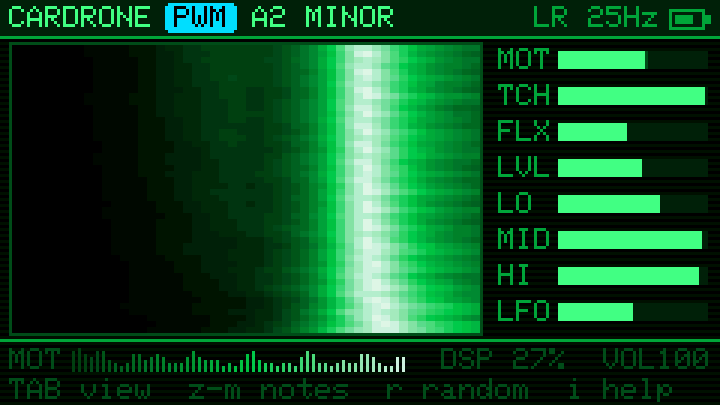
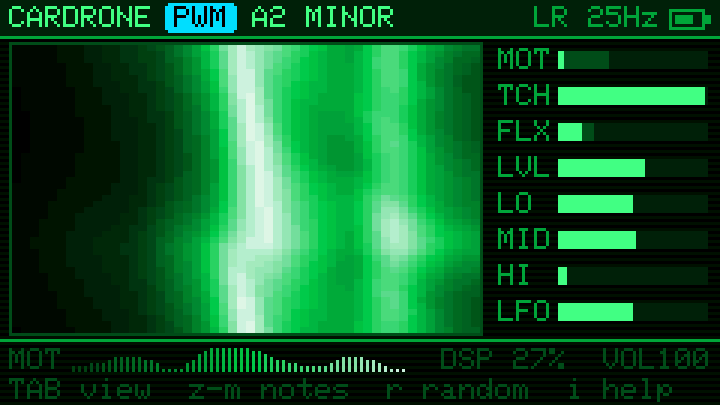
LoRa wobble spectrum 0.03-1.2 Hz with a gentler tilt: centred on MID
A recording of someone moving across a flat (25 beacons/s) put the old 0.15-6 Hz picture's
brightness mostly on the right: LoRa reports levels in 1 dB steps, and their flicker
spreads over every rate. Replayed through candidate settings, 0.03-1.2 Hz with a x f^0.4
tilt and a 0.5 dB floor centres it (waterfall 0.49/0.56/0.51; MID the busiest source).
LO 0.03-0.1 Hz tides, MID 0.1-0.35 Hz moving about, HI 0.35-1.2 Hz gestures, walking.

diff --git a/src/csi.h b/src/csi.h
@@ -19,10 +19,13 @@ static const char* const SRC_NAME[NSRC] = {"MOT", "PHS", "FLX", "RSI", "LO", "MI
 // LoRa mode: same slots, so the matrix and presets carry over (see level()).
 static const char* const SRC_NAME_LORA[NSRC] = {"MOT", "TCH", "FLX", "LVL", "LO", "MID", "HI", "LFO"};
 // LoRa wobble spectrum: one bandpass filter per waterfall column, log-spaced over the rates
-// people move a sub-GHz link at (breathing and swaying ... walking).
-constexpr float kWobLo = 0.15f, kWobHi = 6;  // Hz
+// people move a sub-GHz link at. Measured across a flat, someone moving about shows up
+// mostly as swells of several dB over several seconds; above ~1 Hz there's little but the
+// readings' 1 dB steps flickering. This span (and the tilt below) centred a recording of
+// that on MID and on the middle of the waterfall.
+constexpr float kWobLo = 0.03f, kWobHi = 1.2f;  // Hz
 static inline float wobHz(int k) { return kWobLo * powf(kWobHi / kWobLo, k / (NSC - 1.f)); }
-constexpr float kLoraFloor = 0.5f;  // dB: wobble smaller than this never reads as full scale (RSSI steps are 0.5 dB)
+constexpr float kLoraFloor = 0.5f;  // dB: wobble smaller than this never reads as full scale
 constexpr float kLvlRange = 6;       // dB away from the empty-room level that reads as full LVL
 constexpr float kTouchMin = 0.05f;   // touch rise (fraction of the untouched reading) that can read as full TCH
 
@@ -130,17 +133,17 @@ struct Csi {
   // (dBm), plus its touch reading. No subcarriers and no phase, so the slots refill:
   // MOT, FLX as for CSI, from the level; PHS -> TCH, the touch; RSI -> LVL, the level,
   // or once calibrated its distance from the empty room's. prof becomes the wobble
-  // spectrum, 0.15-6 Hz, and LO/MID/HI its thirds, as for CSI: under 0.5 Hz (settling,
-  // swaying), 0.5-1.75 Hz (gestures), 1.75-6 Hz (walking).
+  // spectrum, 0.03-1.2 Hz, and LO/MID/HI its thirds, as for CSI: 0.03-0.1 Hz (slow tides),
+  // 0.1-0.35 Hz (someone moving about), 0.35-1.2 Hz (gestures, walking).
   void level(float dbm, float touch) {
     // Bandpass (Q 2: broad, but quick), its envelope's rate (~1.5 cycles, at most 2 s), and a
-    // tilt for the picture: motion has far less energy at quick rates, which would stay dark.
+    // gentle tilt for the picture: motion has less energy at quicker rates.
     struct Bp { float b0, a1, a2, e, tilt; };
     static Bp bp[NSC];
     if (!bp[0].b0)
       for (int k = 0; k < NSC; k++) {
         float f = wobHz(k), w = 6.2831853f * f / 50, al = sinf(w) / 4, a0 = 1 + al;
-        bp[k] = {al / a0, -2 * cosf(w) / a0, (1 - al) / a0, 1 - expf(-0.02f / fminf(1.5f / f, 2)), sqrtf(f / kWobLo)};
+        bp[k] = {al / a0, -2 * cosf(w) / a0, (1 - al) / a0, 1 - expf(-0.02f / fminf(1.5f / f, 2)), powf(f / kWobLo, 0.4f)};
       }
     if (frames == 0) fast[0] = slow[0] = prev[0] = lvl = dbm;
     fast[0] += (dbm - fast[0]) * 0.3f;

diff --git a/test/host_test.cpp b/test/host_test.cpp
@@ -95,8 +95,8 @@ int main(int argc, char** argv) {
   csi.calibrate();
   feed(0, 1.5f, kCalFrames, t);
 
-  // LoRa: a still link stays low; walking (fast fades) lifts MOT, FLX and HI and peaks the
-  // wobble spectrum at its rate; a slow sway lifts LO over HI; touch; calibrated LVL.
+  // LoRa: a still link stays low; quicker movement lifts MOT, FLX and HI within 2 s and
+  // peaks the wobble spectrum at its rate; slow tides lift LO over HI; touch; calibrated LVL.
   {
     static Csi c;
     float tt = 0;
@@ -108,20 +108,24 @@ int main(int argc, char** argv) {
     };
     link(-62, 0, 0, 0, 1500);  // 30 s still
     float sMot = c.src[S_MOT], sFlx = c.src[S_FLX], sHi = c.src[S_HI];
-    link(-62, 3, 0.2f, 0, 400);  // 8 s swaying: 3 dB at 0.2 Hz
-    printf("lora: still MOT %.2f FLX %.2f HI %.2f  sway LO %.2f MID %.2f HI %.2f\n", sMot, sFlx, sHi, c.src[S_LO],
-           c.src[S_MID], c.src[S_HI]);
-    assert(sMot < 0.35f && sHi < 0.35f && c.src[S_LO] > 0.5f && c.src[S_LO] > c.src[S_HI] + 0.3f);
-    int react = -1;  // 5 s walking: 4 dB fades at 3 Hz; HI must follow within half a second
-    for (int f = 0; f < 250; f++)
-      if (link(-62, 4, 3, 0, 1), react < 0 && c.src[S_HI] > 0.5f) react = f;
+    int react = -1;  // 8 s of gestures: 4 dB fades at 0.7 Hz; sources averaged over the last 4 s
+    float mot = 0, flx = 0, hi = 0;
+    for (int f = 0; f < 400; f++) {
+      if (link(-62, 4, 0.7f, 0, 1), react < 0 && c.src[S_HI] > 0.5f) react = f;
+      if (f >= 200) mot += c.src[S_MOT] / 200, flx += c.src[S_FLX] / 200, hi += c.src[S_HI] / 200;
+    }
     int pk = 0;
     for (int k = 1; k < NSC; k++)
       if (c.benv[k] > c.benv[pk]) pk = k;
-    printf("lora: walking MOT %.2f FLX %.2f HI %.2f  peak %.1f Hz\n", c.src[S_MOT], c.src[S_FLX], c.src[S_HI], wobHz(pk));
-    assert(c.src[S_MOT] > sMot + 0.3f && c.src[S_FLX] > sFlx + 0.3f && c.src[S_HI] > 0.6f);
-    assert(fabsf(wobHz(pk) - 3) < 0.5f && c.prof[pk] > 0.8f);  // the walking rate lights up
-    assert(react >= 0 && react * 20 < 500);
+    printf("lora: still MOT %.2f FLX %.2f HI %.2f  moving MOT %.2f FLX %.2f HI %.2f  peak %.1f Hz\n", sMot, sFlx, sHi,
+           mot, flx, hi, wobHz(pk));
+    assert(sMot < 0.35f && sHi < 0.35f && mot > sMot + 0.3f && flx > sFlx + 0.3f && hi > 0.6f);
+    assert(fabsf(wobHz(pk) - 0.7f) < 0.15f && c.prof[pk] > 0.8f);  // its rate lights up
+    assert(react >= 0 && react * 20 < 2000);
+    link(-62, 0, 0, 0, 1500);  // 30 s still, then 30 s of slow tides: 3 dB at 0.06 Hz
+    link(-62, 3, 0.06f, 0, 1500);
+    printf("lora: tides LO %.2f MID %.2f HI %.2f\n", c.src[S_LO], c.src[S_MID], c.src[S_HI]);
+    assert(c.src[S_LO] > 0.5f && c.src[S_LO] > c.src[S_HI] + 0.3f);
     link(-62, 0, 0, 0.3f, 50);
     assert(c.src[S_PHS] > 0.9f);  // TCH
     link(-62, 0, 0, 0, 50);

diff --git a/test/screens.cpp b/test/screens.cpp
@@ -221,15 +221,15 @@ int main(int argc, char** argv) {
   overlay = OV_NONE, calAt = millis() + 3500, shot("cal_countdown");
   calAt = 0, csi.calLeft = kCalFrames * 2 / 5, shot("cal_capture");
 
-  // LoRa mode: a still link, then someone walks through the flat (fades at 2-3 Hz) and,
-  // for the last 2 s, a hand on the Heltec's touch pin.
+  // LoRa mode: a still link, then someone moving about the flat (swells every few seconds)
+  // and, for the last 2 s, a hand on the Heltec's touch pin.
   csi = Csi();
   netMode = NET_LORA, netCh = 0;
-  for (uint32_t t0 = millis(), next = t0; millis() - t0 < 10000;) {
-    float t = (millis() - t0) / 1000.f, walk = t > 6 ? 1 : 0;
+  for (uint32_t t0 = millis(), next = t0; millis() - t0 < 30000;) {
+    float t = (millis() - t0) / 1000.f, walk = t > 10 ? 1 : 0;
     if (millis() >= next) {
-      float v = -64 + walk * (3 * sinf(6.283f * 2.4f * t) + 1.5f * sinf(6.283f * 0.7f * t)) + 0.3f * (rand() / (float)RAND_MAX - 0.5f);
-      csi.level(roundf(v * 2) / 2, t > 8 ? 0.4f : 0);
+      float v = -64 + walk * (3 * sinf(6.283f * 0.2f * t) + 1.5f * sinf(6.283f * 0.6f * t)) + 0.3f * (rand() / (float)RAND_MAX - 0.5f);
+      csi.level(roundf(v), t > 28 ? 0.4f : 0);  // LoRa reports whole dB
       loraPkts += (next / 20) % 2;  // the Heltec sends 25 a second
       next += 20;
     }

diff --git a/README.md b/README.md
@@ -19,7 +19,7 @@ Rendered by the firmware's own drawing code from a simulated room, in which some
 | <img src="docs/cal_countdown.png" width="360" alt="Calibration countdown"> | <img src="docs/cal_capture.png" width="360" alt="Calibration capture"> |
 | **Calibrate** (`e`): 5 s to leave the room… | …then the empty room is captured. Any key cancels. |
 | <img src="docs/lora.png" width="360" alt="LoRa mode"> | |
-| **LoRa mode**: the waterfall becomes the link's wobble spectrum (0.15 Hz left, 6 Hz right, log-spaced): someone walking lights it up. TCH and LVL take PHS's and RSI's places. | |
+| **LoRa mode**: the waterfall becomes the link's wobble spectrum (0.03 Hz left, 1.2 Hz right, log-spaced): someone moving about lights it up. TCH and LVL take PHS's and RSI's places. | |
 
 ## Build / flash
 
@@ -111,9 +111,9 @@ A task woken by the radio reads each one as it lands. LoRa hears ~13 dB further 
 | PHS → **TCH** | the Heltec's touch pins GPIO2–7: a fingertip on a bare header pin; a wire or foil on one senses a hand a few cm away | you, playing it |
 | FLX | packet-to-packet change of the level | walking, fast movement |
 | RSI → **LVL** | the level (−100 to −40 dBm); after `e`, its distance from the empty flat's level (6 dB = full) | someone being there, doors, standing in the path |
-| LO / MID / HI | thirds of the wobble spectrum: 0.15–0.5 Hz, 0.5–1.75 Hz, 1.75–6 Hz | settling and swaying / gestures / walking |
+| LO / MID / HI | thirds of the wobble spectrum: 0.03–0.1 Hz, 0.1–0.35 Hz, 0.35–1.2 Hz | slow tides (10–30 s swells) / someone moving about / gestures, walking |
 
-The waterfall and the ORG engine's partials follow the wobble spectrum instead of the subcarriers: 52 bandpass filters, log-spaced from 0.15 to 6 Hz (where people move a sub-GHz link), quicker columns boosted (×√f) since motion has far less energy at quick rates. Fast columns react in ~0.2 s, the slowest within ~2 s. The MOD PROFILE (options) adds its own glide on top: NORMAL or SHARP feel immediate. Place the two boards so people pass between them; a body in the direct path makes the biggest change.
+The waterfall and the ORG engine's partials follow the wobble spectrum instead of the subcarriers: 52 bandpass filters, log-spaced from 0.03 to 1.2 Hz, quicker columns boosted (×f^0.4) since motion has less energy at quick rates. Tuned on a recording of someone moving across a flat: it centres on MID and the middle of the waterfall, and leaves out the flicker of LoRa's 1 dB level steps above ~1 Hz. The quickest columns react within ~1 s, the slowest over tens of seconds; MOT and FLX react at once. The MOD PROFILE (options) adds its own glide on top: NORMAL or SHARP feel immediate. Place the two boards so people pass between them; a body in the direct path makes the biggest change.
 
 ## Mod sources (from CSI)
 

diff --git a/manual.md b/manual.md
@@ -37,7 +37,7 @@ Press **Tab** to cycle through four pages.
 
 ### 1. Waterfall
 
-A picture of the WiFi signal over time. Each column is one of 52 slices of the WiFi channel, and new readings appear at the top and scroll down. Bright means strong, dark means weak. When the room is still, the waterfall forms steady vertical stripes; when people move, the stripes wobble and smear. In LoRa mode it shows something else: how fast the link is wobbling, from slow swells (left, a few seconds per wobble) to quick flicker (right, six a second). A still flat is dark; someone walking lights up the right half.
+A picture of the WiFi signal over time. Each column is one of 52 slices of the WiFi channel, and new readings appear at the top and scroll down. Bright means strong, dark means weak. When the room is still, the waterfall forms steady vertical stripes; when people move, the stripes wobble and smear. In LoRa mode it shows something else: how fast the link is wobbling, from slow tides (left, half a minute per swell) to quick wobble (right, about one a second). A still flat is dark; someone moving about lights up the middle.
 
 On the right are live meters for the eight **mod sources** (explained below). The dim bar behind each meter is a fading memory of its recent peak.
 
@@ -96,7 +96,7 @@ The LoRa link gives one number per packet (how strongly it arrived), not 52 slic
 | **MOT**, **FLX** | As above, from the link's strength. Reaches through walls: the whole flat, not just the room. |
 | **TCH** (touch, in PHS's place) | A finger on one of the Heltec's touch pins (GPIO2 to GPIO7: check the pin labels or Heltec's pin diagram). A wire or a piece of foil on the pin senses a hand from a few cm away, like a small theremin. Rises from 0 to 1 with how much you touch. |
 | **LVL** (level, in RSI's place) | How strong the link is. After calibrating: how far it is from the empty flat's level, so it reads "someone is here". |
-| **LO / MID / HI** | The left, middle and right third of the waterfall: slow wobble (people settling, swaying, doors), medium (gestures), fast (walking). |
+| **LO / MID / HI** | The left, middle and right third of the waterfall: slow tides (10–30 s), someone moving about (3–10 s), gestures and walking (under 3 s). MID is the busiest. |
 
 ### Calibrating
 
